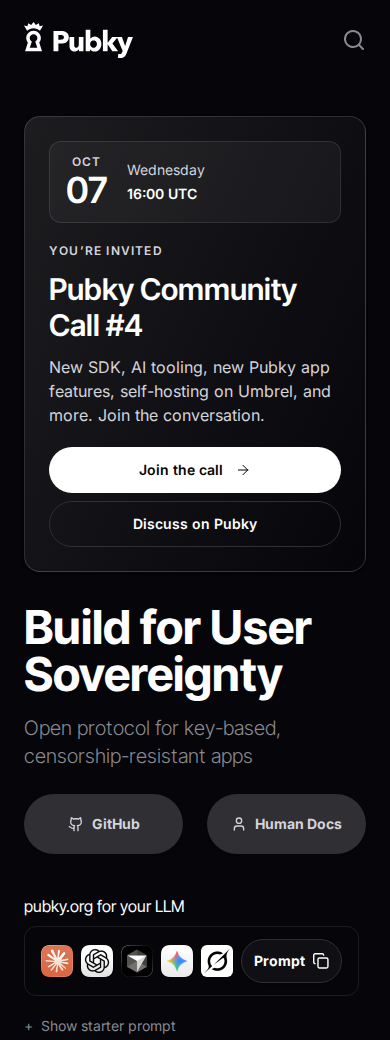
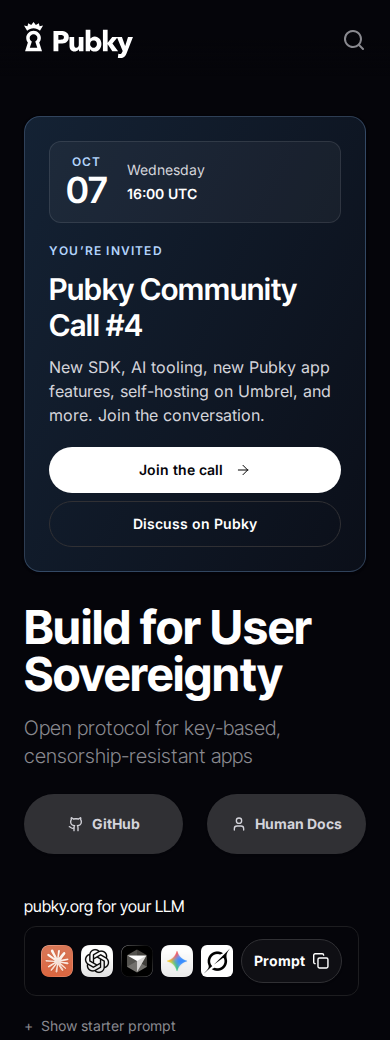
Give homepage announcements a subtle blue tint

Changed region(s): [[0.1231, 0.2154, 0.4, 0.2462], [0.1846, 0.1538, 0.2154, 0.1846]]

diff --git a/src/styles/custom.css b/src/styles/custom.css
@@ -87,6 +87,12 @@
 	--alpha-white-5: rgba(255, 255, 255, 0.045);
 	--base-secondary-hover: #3a3a3f;
 
+	/* A restrained cool accent for prominent homepage announcements. */
+	--announcement-background-start: #142234;
+	--announcement-background-end: #0b0f19;
+	--announcement-border: rgba(147, 197, 253, 0.25);
+	--announcement-accent: #b3d4fc;
+
 	/* AI landing page — extends the existing Pubky palette and type scale. */
 	--landing-touch-target: 44px;
 	--landing-border-width: 1px;
